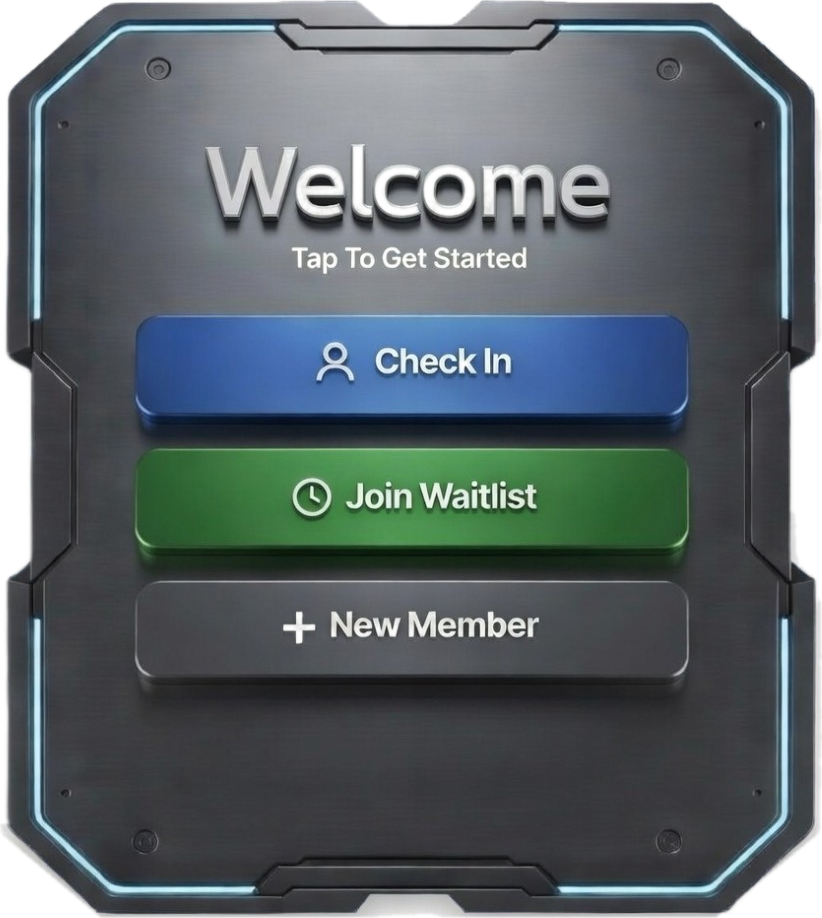
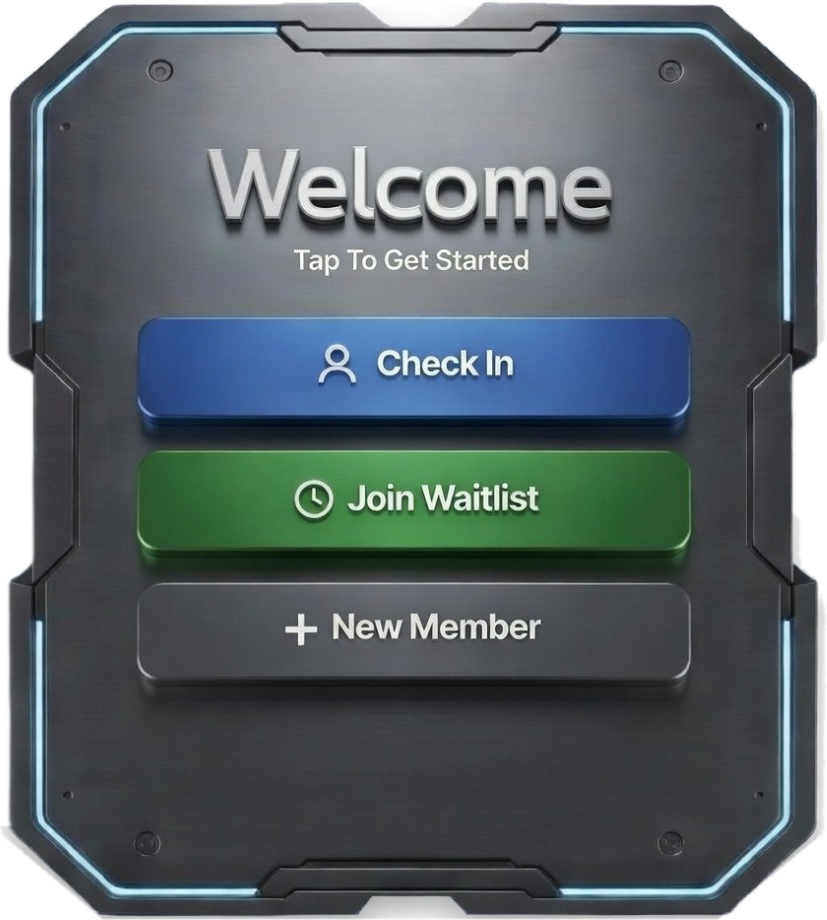
fix: pristine ISNET ML mask combined with hand-drawn right neon and exact corner extraction

diff --git a/pages/commander/kiosk.js b/pages/commander/kiosk.js
@@ -441,7 +441,7 @@ export default function MembershipKiosk() {
             <div style={{ position: 'relative', maxWidth: '90%', maxHeight: '90%', display: 'flex' }}>
               {/* Background Image — PNG with transparent background */}
               <img
-                src="/images/commander/kiosk-welcome.png?v=10"
+                src="/images/commander/kiosk-welcome.png?v=12"
                 alt="Welcome Kiosk"
                 style={{
                   width: '100%',
